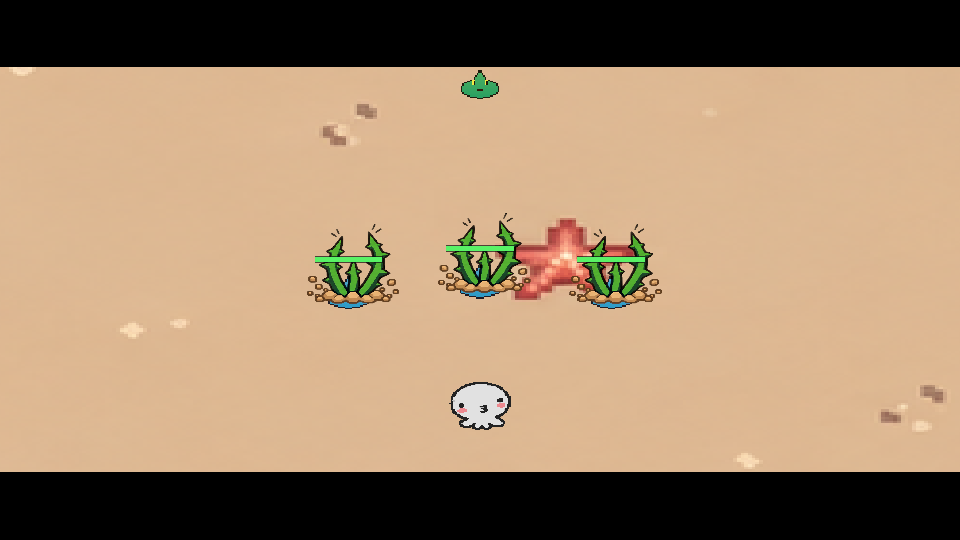
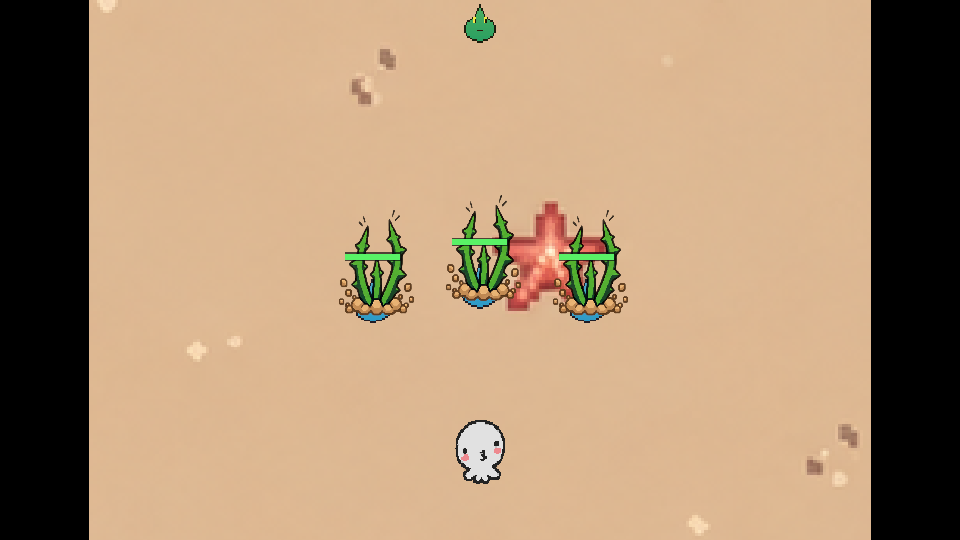
속성: 풀 가시 표시 시간 연장과 성장 연출 완화

diff --git a/Source/문어_유한맵/Assets/Editor/GrassThornChecks.cs b/Source/문어_유한맵/Assets/Editor/GrassThornChecks.cs
@@ -17,6 +17,21 @@ namespace OctopusSurvivors.EditorTools
         const string Key = "Octopus.GrassThornCheck";
         static GrassThornChecks()
         {
+            double nextPoll = 0;
+            EditorApplication.update += () =>
+            {
+                if (EditorApplication.timeSinceStartup < nextPoll) return;
+                nextPoll = EditorApplication.timeSinceStartup + .5;
+                if (EditorApplication.isPlayingOrWillChangePlaymode || EditorApplication.isCompiling || EditorApplication.isUpdating) return;
+                const string request = "Logs/grass-thorn-check.request";
+                if (File.Exists(request))
+                {
+                    File.Delete(request); SessionState.SetBool(Key + ".Pending", true);
+                    AssetDatabase.Refresh(ImportAssetOptions.ForceSynchronousImport); return;
+                }
+                if (!SessionState.GetBool(Key + ".Pending", false)) return;
+                SessionState.SetBool(Key + ".Pending", false); Run();
+            };
             EditorApplication.playModeStateChanged += state =>
             {
                 if (state == PlayModeStateChange.EnteredPlayMode && SessionState.GetBool(Key, false))
@@ -119,9 +134,10 @@ namespace OctopusSurvivors.EditorTools
                     frame.rect.height == 544 && Mathf.Abs(frame.pivot.y - 44) < .01f,
                     "approved frame " + i + " loads with point sampling and fixed ground pivot");
             }
-            Check(GrassThornVisual.FrameIndex(.4f) <= 1 && GrassThornVisual.FrameIndex(.5f) == 3 &&
-                GrassThornVisual.FrameIndex(.72f) == 4 && GrassThornVisual.FrameIndex(1) == 7,
-                "peeking anticipation, rapid stab, hit stop and sand-only ending");
+            Check(GrassThornVisual.FrameIndex(.15f) == 1 && GrassThornVisual.FrameIndex(.3f) == 2 &&
+                GrassThornVisual.FrameIndex(.5f) == 3 && GrassThornVisual.FrameIndex(.75f) == 4 &&
+                GrassThornVisual.FrameIndex(1) == 7,
+                "readable anticipation, slower growth, extended full plant and sand-only ending");
             var enemies = new[] { Target(s, new Vector2(-1.8f, .2f)), Target(s, new Vector2(0, .4f)), Target(s, new Vector2(1.8f, .2f)) };
             var fourth = Target(s, new Vector2(0, 4));
             var outside = Target(s, new Vector2(12, 0));
@@ -134,8 +150,9 @@ namespace OctopusSurvivors.EditorTools
                 fourth.Hp == 10000 && outside.Hp == 10000, "four strikes preserve damage, target count and range");
             emitter.Dead = true;
             var vines = Actors(s).FindAll(a => a.Kind == ActorKind.Vine && !a.Dead);
-            Check(vines.Count == 12 && vines.TrueForAll(a => Mathf.Approximately(a.Life, .18f)),
-                "original transient count and .18-second lifetime unchanged");
+            Check(vines.Count == 12 && vines.TrueForAll(a => Mathf.Approximately(a.Life, .72f) &&
+                Mathf.Approximately(a.Duration, .72f)) && Mathf.Approximately(emitter.Duration, .64f),
+                "plant visuals last .72 seconds while original .64-second attack duration stays unchanged");
             // Capture a single strike per target, instead of stacking the four test strikes.
             for (int i = 3; i < vines.Count; i++) vines[i].Dead = true;
             Call(s, "RenderLocal"); yield return null;
@@ -146,18 +163,17 @@ namespace OctopusSurvivors.EditorTools
                 v.enabled = false;
                 Check(v.GetComponentsInChildren<SpriteRenderer>().Length == 2 &&
                     v.transform.Find("Textured afterglow") == null, "legacy atlas and glow are absent");
-                v.RenderAt(.10f);
+                v.Configure(.45f, .72f);
                 var child = v.transform.Find("Matte pixel thorn strike").GetComponent<SpriteRenderer>();
                 var selected = child.sprite;
                 v.Configure(0, 0);
-                v.RenderAt(.10f);
                 Check(child.sprite == selected, "zero-age snapshots preserve selected frame and fixed registration");
             }
             var camera = Camera.main;
             var follow = camera.GetComponent<PlayerCameraFollow>(); if (follow != null) follow.enabled = false;
             camera.orthographicSize = 3.7f; camera.aspect = 16f / 9; camera.transform.position = new Vector3(0, .6f, -10);
             string folder = Path.GetFullPath("Build/Validation/GrassThornFrames"); Directory.CreateDirectory(folder);
-            float[] times = { 0, .04f, .085f, .095f, .125f, .137f, .15f, .17f };
+            float[] times = { 0, .12f, .21f, .32f, .48f, .61f, .67f, .71f };
             for (int i = 0; i < times.Length; i++)
             {
                 foreach (var v in visuals) v.RenderAt(times[i]);
@@ -165,6 +181,12 @@ namespace OctopusSurvivors.EditorTools
                 Capture(camera, Path.Combine(folder, "frame-" + i.ToString("D2") + ".png"));
             }
             Call(s, "TickActors", .2f); Call(s, "RenderLocal"); yield return null;
+            Check(vines[0].Age >= .2f && !vines[0].Dead &&
+                UnityEngine.Object.FindObjectsByType<GrassThornVisual>(FindObjectsSortMode.None).Length == 3,
+                "plant survives former .18-second cutoff and synchronizes presentation age");
+            Check(Array.TrueForAll(enemies, e => Mathf.Abs(e.Hp - (10000 - 19 * 4)) < .01f),
+                "longer plant display applies no additional damage");
+            Call(s, "TickActors", .53f); Call(s, "RenderLocal"); yield return null;
             Check(UnityEngine.Object.FindObjectsByType<GrassThornVisual>(FindObjectsSortMode.None).Length == 0,
                 "expired transient actors remove all pixel renderers");
             GrassThornChecks.Log("GRASS THORN CHECKS PASS");

diff --git a/Source/문어_유한맵/Assets/Scripts/Elements/GrassThornVisual.cs b/Source/문어_유한맵/Assets/Scripts/Elements/GrassThornVisual.cs
@@ -2,12 +2,12 @@ using UnityEngine;
 
 namespace OctopusSurvivors
 {
-    // Presentation only: each server-side strike keeps its original damage and lifetime.
+    // Presentation only: damage and strike cadence stay independent of this longer animation.
     public sealed class GrassThornVisual : MonoBehaviour
     {
-        public const float DefaultLifetime = .18f;
+        public const float DefaultLifetime = .72f;
         static Sprite[] frames;
-        static readonly float[] FrameEnds = { 160f, 320f, 340f, 400f, 500f, 540f, 600f, 690f };
+        static readonly float[] FrameEnds = { 80f, 160f, 260f, 380f, 580f, 640f, 690f, 720f };
         SpriteRenderer body;
         float age, duration;
 
@@ -16,7 +16,7 @@ namespace OctopusSurvivors
 
         public static int FrameIndex(float progress)
         {
-            float time = Mathf.Clamp01(progress) * 690f;
+            float time = Mathf.Clamp01(progress) * 720f;
             for (int i = 0; i < FrameEnds.Length - 1; i++)
                 if (time < FrameEnds[i]) return i;
             return 7;

diff --git a/Source/문어_유한맵/Assets/Scripts/World/GameSession.cs b/Source/문어_유한맵/Assets/Scripts/World/GameSession.cs
@@ -694,6 +694,7 @@ namespace OctopusSurvivors
                         if (ElementRules.IsAttributePickup(a.Kind) || ElementRules.IsSpecialPickup(a.Kind))
                             break;
 
+                        if (a.Kind == ActorKind.Vine) a.Age += dt;
                         a.Life -= dt;
                         if (a.Kind == ActorKind.Fish && a.Life < 0.55f && !a.Fallen)
                         {
@@ -1068,7 +1069,10 @@ namespace OctopusSurvivors
         public SimActor SpawnTransient(ActorKind kind, Vector2 pos, float size, float life)
         {
             var a = Create(kind, pos, size);
-            a.Life = life;
+            // Vine actors only display a strike whose damage was already applied.
+            // Give the plant time to read without slowing the .16-second damage pulses.
+            a.Life = kind == ActorKind.Vine ? GrassThornVisual.DefaultLifetime : life;
+            if (kind == ActorKind.Vine) a.Duration = a.Life;
             return a;
         }
 

diff --git a/docs/검증/README.md b/docs/검증/README.md
@@ -173,7 +173,7 @@ Relay 자동 검증에서만 사용하는 참가 코드 파일의 읽기/쓰기 
 
 ## 2026-10-16 풀 가시 픽셀 공격 적용
 
-- 사용자 최종 승인 8프레임을 게임의 기본 풀 공격(Vine)에 연결했다. 무광 초록색과 초록 가시, 중앙을 향한 뾰족한 끝, 밝은 모래색 흙을 유지한다. 큰 발광/기존 고해상도 덩굴/잔상은 기본 풀 공격에서 제거했다. 선택 GIF의 삐죽한 전조→급상승→정지→회수 비율을 기존 0.18초 타격 수명에 맞춰 재생한다.
-- Unity 6000.5.7f1 배치 컴파일 및 실제 NGO 로컬 호스트 Play Mode 검사에서 `GRASS THORN CHECKS PASS` 확인. 8프레임 로딩/Point 필터/고정 지면 피벗, 전조·찌르기·정지·회수, 기본 최근접3명/타격당19피해/4회 타격, 4번째 대상·사거리 밖 무피해, 기존12개 이펙트/0.18초 수명, 실제 WorldView 연결, 잔상 부재와 만료 후 렌더러 제거를 확인했다.
+- 사용자 최종 승인 8프레임을 게임의 기본 풀 공격(Vine)에 연결했다. 무광 초록색과 초록 가시, 중앙을 향한 뾰족한 끝, 밝은 모래색 흙을 유지한다. 큰 발광/기존 고해상도 덩굴/잔상은 기본 풀 공격에서 제거했다. 빠른 표시로 풀 공격을 구별하기 어렵다는 피드백을 반영해 표시 수명만 0.18→0.72초로 늘렸다. 전조0.16초·성장0.10초·완전히 솟은 모습0.32초·회수0.14초로, 식물 형태를 충분히 보여준 뒤 사라진다. 공격 발동 주기와 피해 발생 시점은 기존대로다.
+- Unity 6000.5.7f1 배치 컴파일 및 실제 NGO 로컬 호스트 Play Mode 검사에서 `GRASS THORN CHECKS PASS` 확인. 8프레임 로딩/Point 필터/고정 지면 피벗, 전조·찌르기·정지·회수, 기본 최근접3명/타격당19피해/4회 타격, 4번째 대상·사거리 밖 무피해, 기존12개 이펙트/0.64초 공격 지속시간 유지, 0.72초 시각 수명, 0.18초 이후에도 표시 유지, 서버 표시 경과시간 동기화, 표시 연장의 추가 피해 없음, 실제 WorldView 연결, 잔상 부재와 만료 후 렌더러 제거를 확인했다.
 - [실제 게임 적용 화면](grass-thorn-gameplay.png). 캡처 원본은 `Source/문어_유한맵/Build/Validation/GrassThornFrames/frame-00.png`~`frame-07.png` 고정 경로. 검사 상태 `Logs/grass-thorn-check.status`=PASS, 상세 `Logs/grass-thorn-checks.log`, Unity 로그 `Logs/grass-thorn-unity.log`.
-- 재실행: `문어/풀 가시 픽셀 검증` 또는 Unity에 `-batchmode -acceptSoftwareTermsForThisRunOnly -projectPath <프로젝트> -executeMethod OctopusSurvivors.EditorTools.GrassThornChecks.Run -logFile <프로젝트>/Logs/grass-thorn-unity.log` 전달. 통제된 1회 공격 표시·피해 검사이며 두 PC/Relay와 장기 밸런스는 미검증. 기존25바이트 스냅샷 유지. Windows 빌드/ZIP은 생성하지 않았다.
+- 재실행: `문어/풀 가시 픽셀 검증` 또는 열린 편집 모드 에디터에 `Logs/grass-thorn-check.request` 파일로 요청. 프로젝트가 닫혀 있을 때는 Unity에 `-batchmode -acceptSoftwareTermsForThisRunOnly -projectPath <프로젝트> -executeMethod OctopusSurvivors.EditorTools.GrassThornChecks.Run -logFile <프로젝트>/Logs/grass-thorn-unity.log` 전달. 통제된 1회 공격 표시·피해 검사이며 두 PC/Relay와 장기 밸런스는 미검증. 기존25바이트 스냅샷 유지. Windows 빌드/ZIP은 생성하지 않았다.

diff --git a/docs/구조/abilities/NOTES.md b/docs/구조/abilities/NOTES.md
@@ -95,5 +95,5 @@
 ## 2026-10-16 풀 가시 픽셀 공격
 
 - 사용자 최종 선택(차분한 무광 초록, 중앙을 향하는 뾰족한 가시, 해변 모래색 흙)의 8프레임을 `Vfx/GrassThornPixel`로 적용했다. `GrassThornVisual`은 고정 지면 피벗과 Point 필터로 끝만 삐죽 보인 뒤 급상승·짧은 정지·회수 순서를 표시한다.
-- `HdSpellVisual.Configure`의 Vine만 전용 표시로 연결했다. 피해/사거리/대상 수/4회 타격/0.18초 기존 표시 수명과 네트워크25바이트를 유지하며, 시안의 시간 비율을 기존 짧은 타격 수명에 맞췄다. 잔류 가시밭/가시 투사체/다른 속성은 기존 표시 유지.
+- `HdSpellVisual.Configure`의 Vine만 전용 표시로 연결했다. 피해/사거리/대상 수/4회 타격과 네트워크25바이트는 유지한다. 가독성 피드백에 따라 표시만 0.18→0.72초로 늘리고 전조0.16초·성장0.10초·완전히 솟은 모습0.32초·회수0.14초로 조정했다. Vine의 서버 Age/Duration을 기존 스냅샷 필드로 전달하며 표시 연장으로 추가 피해가 생기지 않는다. 잔류 가시밭/가시 투사체/다른 속성은 기존 표시 유지.
 - Unity 6000.5.7f1 로컬 NGO 호스트 검사 PASS. 실행 메뉴 `문어/풀 가시 픽셀 검증`, 결과와 실제 전투 캡처는 `docs/검증/README.md` 참조.

diff --git a/docs/구조/abilities/README.md b/docs/구조/abilities/README.md
@@ -63,10 +63,11 @@
 
 ## `Assets/Scripts/World/GameSession.cs` 진입 함수
 
-- `SpawnAllySpirit` — 1807행 (행 번호는 색인 생성 시점, 수정 후 함수명으로 재검색)
-- `SpawnPiercingMeteor` — 1816행 (행 번호는 색인 생성 시점, 수정 후 함수명으로 재검색)
-- `CastBlackFlame` — 1837행 (행 번호는 색인 생성 시점, 수정 후 함수명으로 재검색)
-- `InfectFlame` — 1872행 (행 번호는 색인 생성 시점, 수정 후 함수명으로 재검색)
+- `SpawnTransient` — 1069행 (행 번호는 색인 생성 시점, 수정 후 함수명으로 재검색)
+- `SpawnAllySpirit` — 1811행 (행 번호는 색인 생성 시점, 수정 후 함수명으로 재검색)
+- `SpawnPiercingMeteor` — 1820행 (행 번호는 색인 생성 시점, 수정 후 함수명으로 재검색)
+- `CastBlackFlame` — 1841행 (행 번호는 색인 생성 시점, 수정 후 함수명으로 재검색)
+- `InfectFlame` — 1876행 (행 번호는 색인 생성 시점, 수정 후 함수명으로 재검색)
 
 ## `Assets/Scripts/Player/OctopusPlayer.cs` 진입 함수
 
